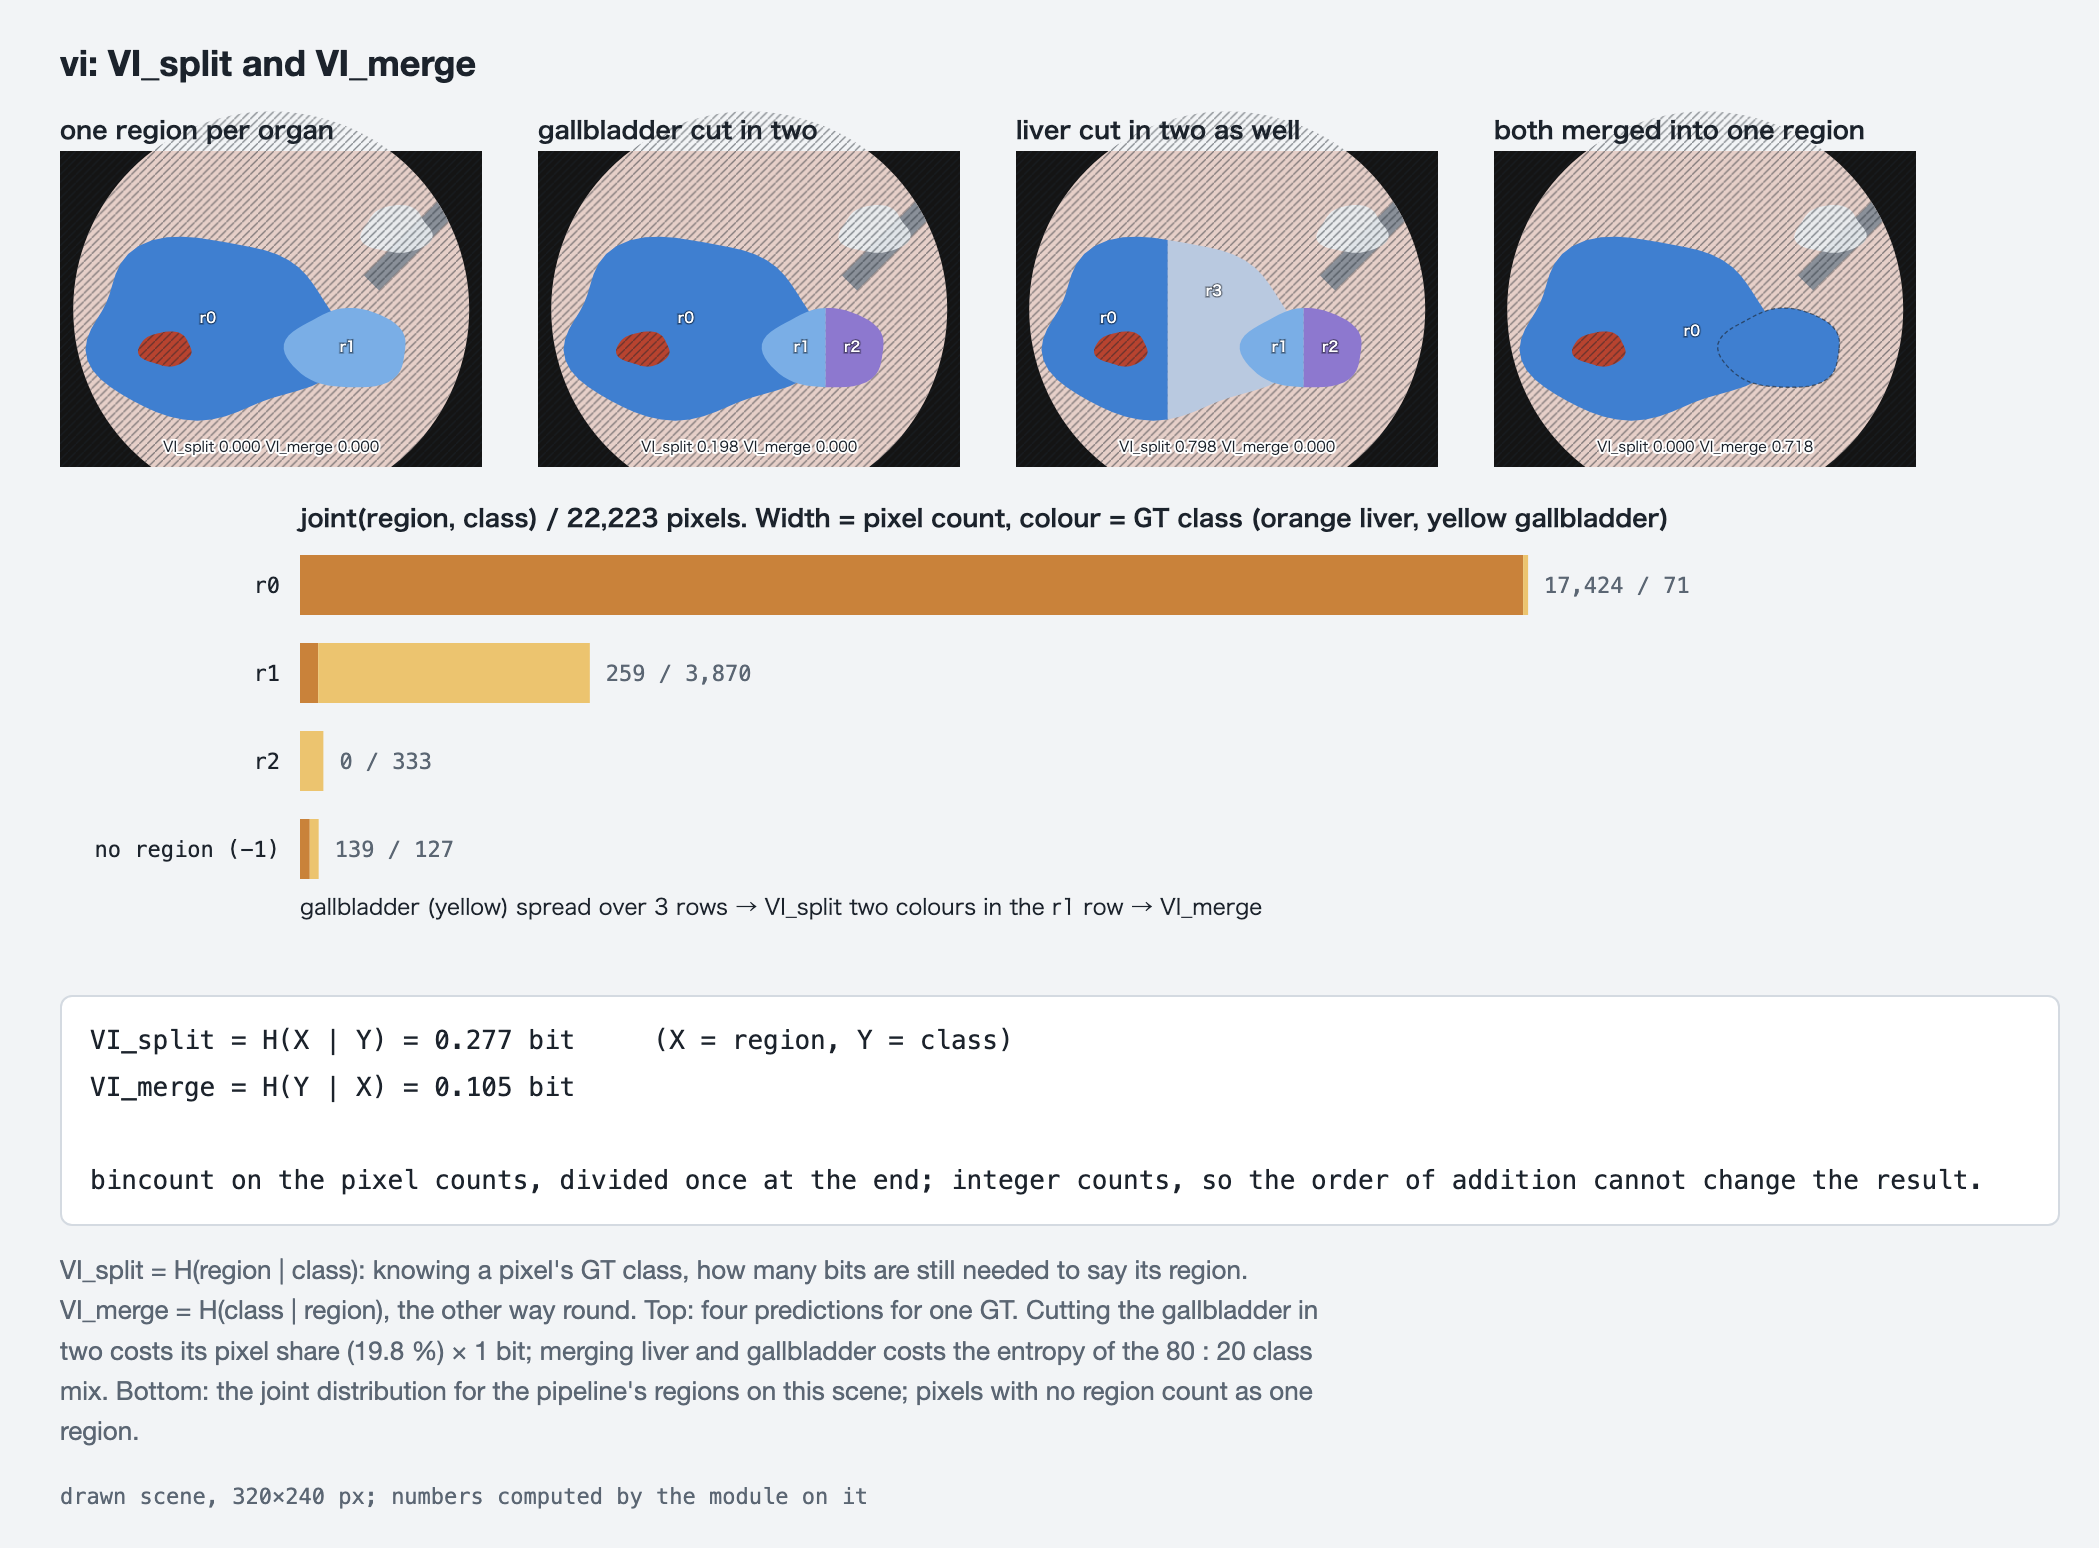
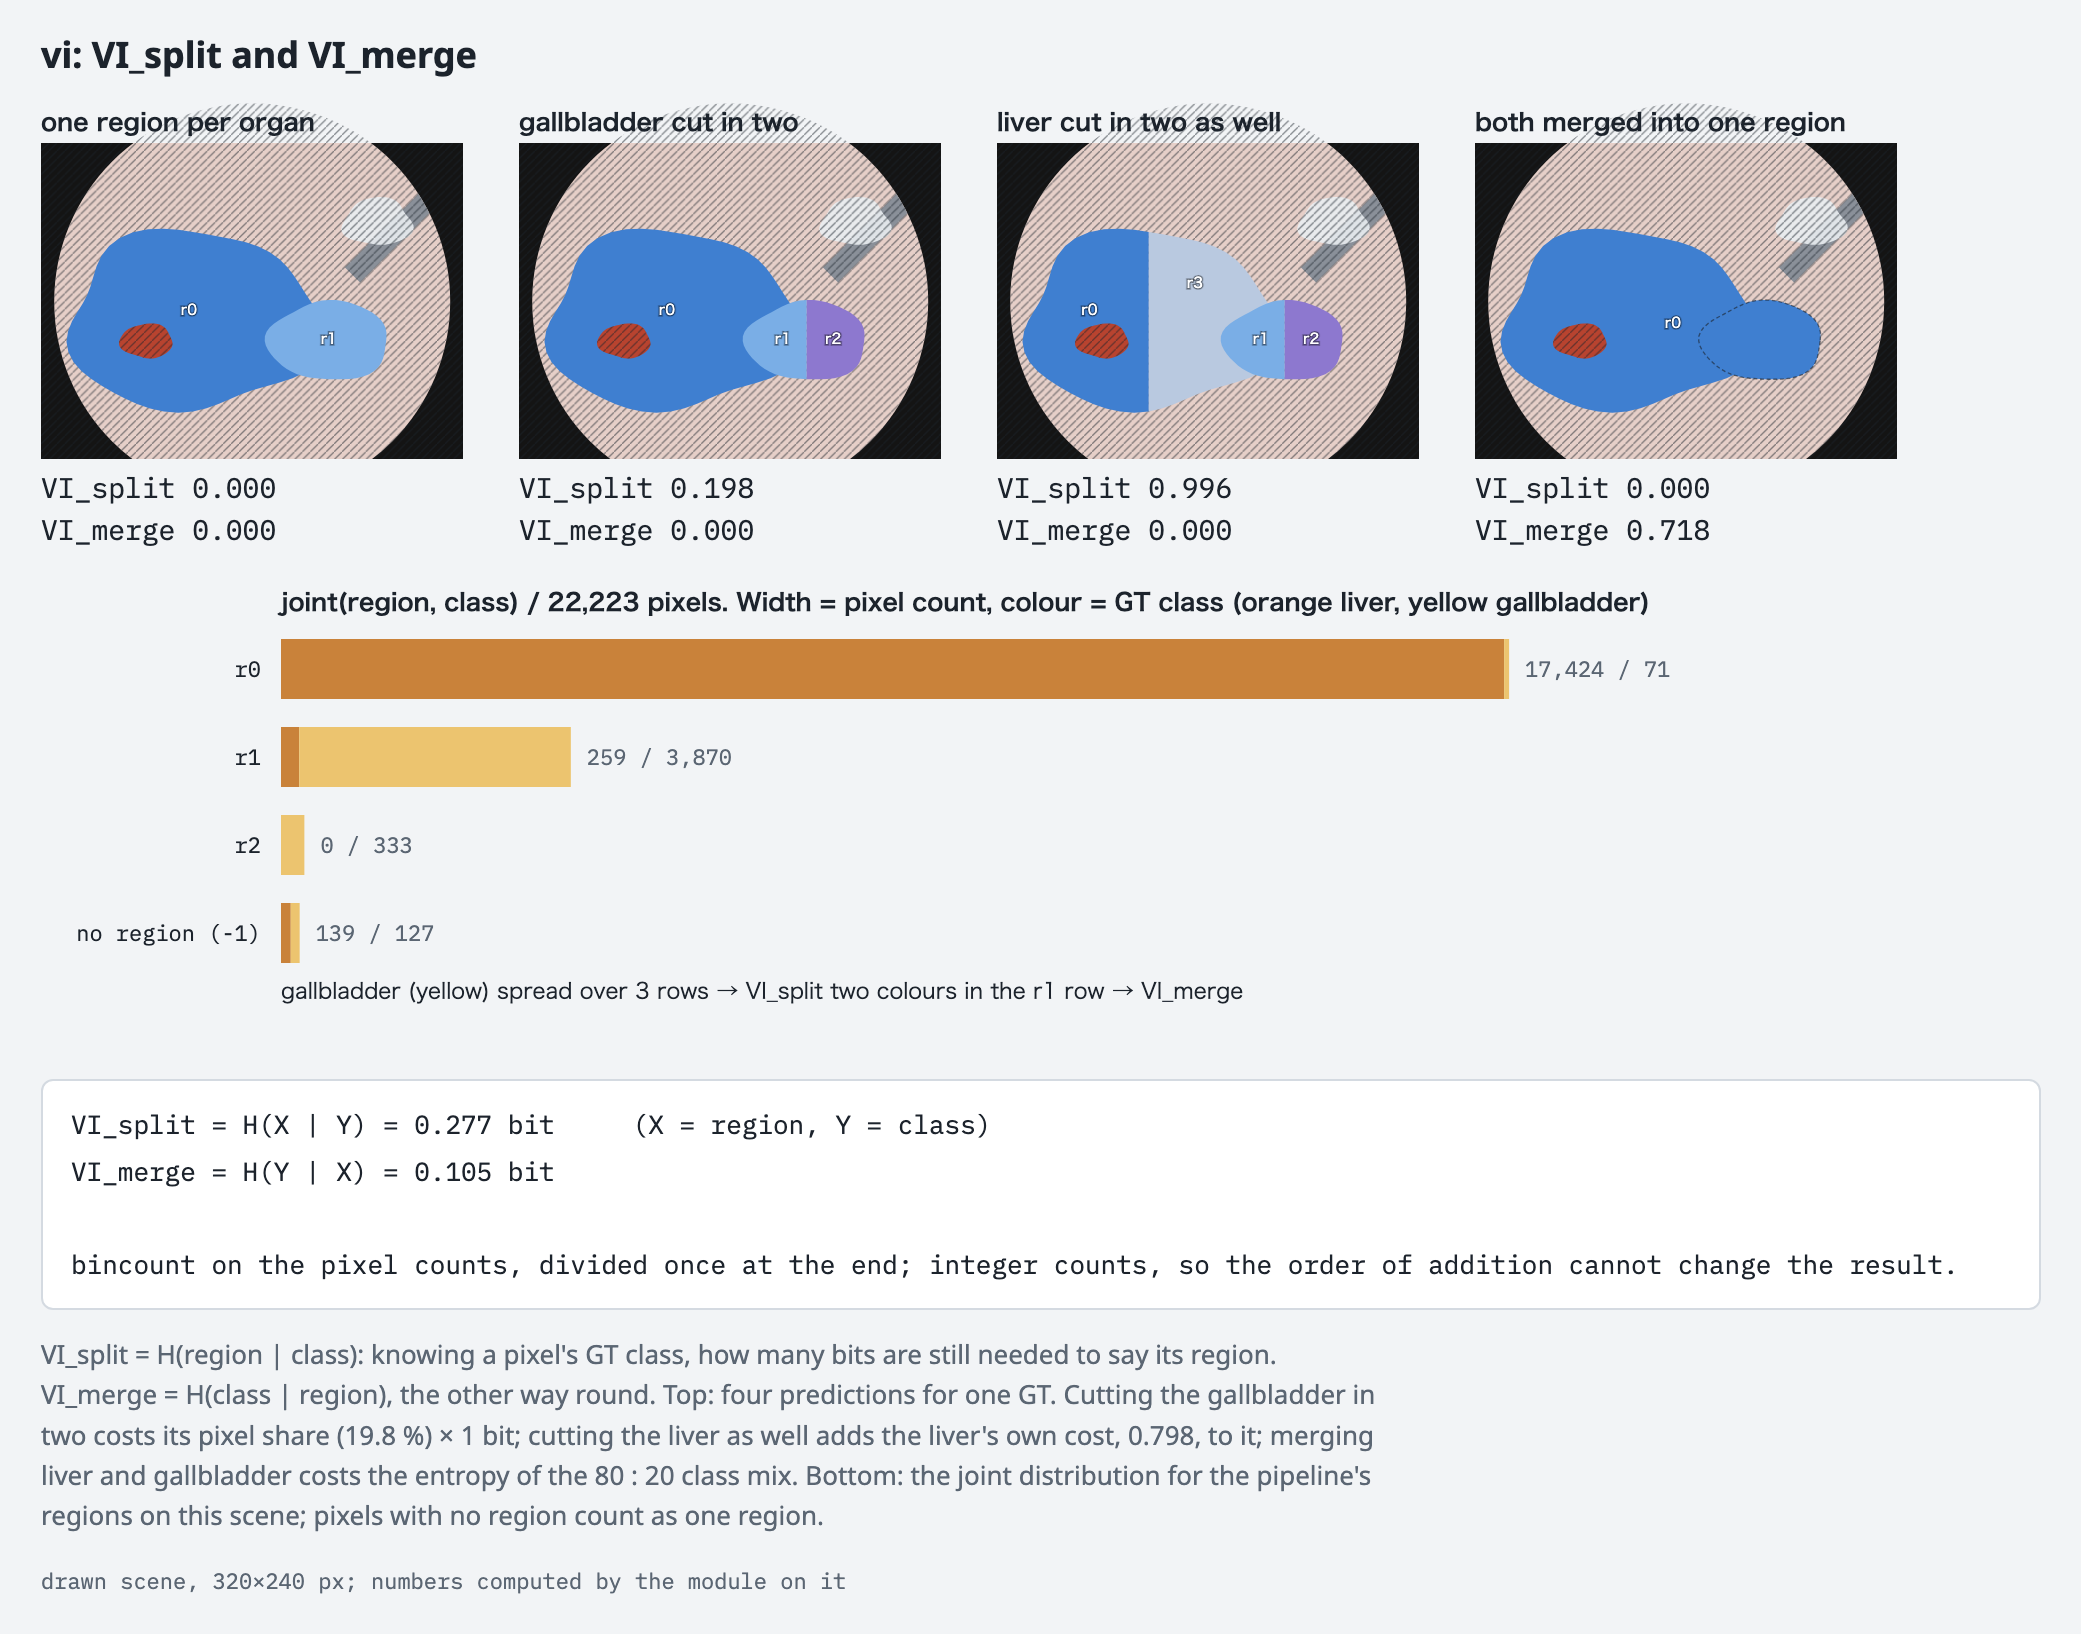
docs/evaluation: correct the VI figure and the boundary tolerance sentence
The third panel of vi.png draws both the liver and the gallbladder cut in
two. Its value was computed with the liver cut alone; it now shows 0.996.
The values sit under each panel, at a size that stays readable when the
figure is shrunk to the page.

The boundary rule said a boundary may be off by BOUNDARY_TOL_PX + 1 px.
The tolerance figure next to it shows that such an edge scores 1/2. The
sentence now says what evalkit/boundary.py computes.

inst_bf.png moves after the boundary rule it relies on. A paragraph
before the first drawn scene says what hatching and the patch without
depth mean. The overview leaves the comparison of two conditions to the
tools. The inputs table counts frames from 0 and says the index is not
time order. The flow in scored_pixels.png routes valid into the sort,
not into the result, and its caption lists what each view leaves out.

diff --git a/docs/evaluation.md b/docs/evaluation.md
@@ -61,17 +61,17 @@ was replaced, then the class tables.
 
 ## The evaluator at a glance
 
-The evaluator works in six steps. It reads a clip's inputs, scores each frame
-in three views, averages each key over the clip, writes one score file per
-condition, and compares two conditions.
+Scoring runs in six steps. The evaluator reads a clip's inputs, scores a
+frame in one view and then in all three, averages each key over the clip, and
+writes one score file per condition. The tools then compare two conditions.
 
-![The evaluator in six steps on a drawn scene: a clip's inputs; one frame, scored in three views; one clip, each key's mean over its frames; one condition, one score file; two conditions, the key that decides each question.](figures/evalkit_overview.png)
+![Scoring in six steps on a drawn scene: a clip's inputs; one frame, scored in each of three views (steps 2 and 3); one clip, each key's mean over its frames; one condition, one score file; two conditions, the key that decides each question.](figures/evalkit_overview.png)
 
 The second figure shows the same steps part by part. Each box names, in its
-corner, the module that holds the part, so a rule below can be found in the
-code. A module's docstring says what it returns.
+corner, the module or package that holds the part, so a rule below can be
+found in the code. A module's docstring says what it returns.
 
-![The evaluator part by part: a clip's inputs; scored pixels and the keys of one frame in one view; one frame in every view; one clip; one score file per condition; the tools that compare two conditions. Each box names its module.](figures/evaluator_map.png)
+![The evaluator part by part: a clip's inputs; scored pixels and the keys of one frame in one view; one frame in every view; one clip; one score file per condition; the tools that compare two conditions. Each box names its module or package.](figures/evaluator_map.png)
 
 ## How a frame is scored
 
@@ -118,12 +118,14 @@ code. A module's docstring says what it returns.
   clip. It lists the clip's frames with their times and GT flags, and holds
   the crop rectangle.
 
-A clip is a directory. Frame i is the i-th entry of the frame manifest, and
-every input of that frame sits at index i. For frame 7:
+A clip is a directory. Frame i is `frames[i]` of the frame manifest, counted
+from 0, and every input of that frame sits at index i. The index is the
+frame's place in the manifest, not in time; "Time" above says how the frames
+are ordered. For frame 7:
 
 | input | where | frame 7 |
 |---|---|---|
-| frame manifest | `frame_manifest.json`, in the clip | entry 7 of `frames`, whose `seq_idx` is 7 |
+| frame manifest | `frame_manifest.json`, in the clip | `frames[7]`, whose `seq_idx` is 7 |
 | depth | `exports/mini_npz/results.npz`, in the clip | `depth[7]` |
 | GT mask | `seg_masks/`, in the clip | `000007_color_mask.png` (CholecSeg8k), `000007_class.png` (ATLAS-120k) |
 | prediction | the condition's directory for the clip, which the tracking stage writes | `label_0007.npy` |
@@ -171,6 +173,12 @@ indexed by class id and predicted objects by region id, both ascending. That
 is the pilot evaluator's order, kept so that both modes share one rule. A pair
 with IoU ≥ `MATCH_IOU` is a *hit*. `F1_50`, `SQ` and `inst_BF` are taken over
 these objects.
+
+This figure and the ones below draw one scene and run the modules on it.
+Hatched pixels are not scored; "Views" says which. The pale patch next to the
+tool has no depth. Normal mode would refuse such a frame. The figures leave
+the patch out of the scored pixels, as pilot mode does, and score the rest by
+the normal rules.
 
 ![Objects on a drawn scene in the geometric view: two GT objects, one per class; three predicted objects, one per region; the pairs taken greedily by IoU, two hits, and F1_50 and SQ computed from them.](figures/objects.png)
 
@@ -233,8 +241,7 @@ that stops at its edge.
 ![One drawn scene in the three views: hatched pixels are not scored; the tool leaves the tissue view, and the tool and the blood leave the geometric view. A table counts each removed pixel once, by the first reason that removed it.](figures/scored_pixels.png)
 
 [`evalkit/scored.py`](../evalkit/scored.py) computes the numbers on this
-scene. It scores the scene in pilot mode, because the scene holds a patch
-without depth, and normal mode refuses such a frame.
+scene, in pilot mode.
 
 #### Why removed pixels are not filled in
 
@@ -309,12 +316,8 @@ What the scores cannot see is counted instead, as `unlabelled_share` below.
   the boundary F between the predicted object's contour and the GT object's,
   each marked by the boundary rule below over the scored pixels.
 
-The figure under "Objects" shows `F1_50` and `SQ`.
-
-![inst_BF on a drawn scene: the contour of each hit against its GT object's contour, within the tolerance, and inst_BF as the mean F over the hits. With the gallbladder unlabelled, the liver has no contour to recover, and the hit is left out and counted.](figures/inst_bf.png)
-
-[`evalkit/inst_bf.py`](../evalkit/inst_bf.py) computes the numbers on this
-scene.
+The figure under "Objects" shows `F1_50` and `SQ`. The figure of `inst_BF`
+comes after the boundary rule it uses, under "Boundaries".
 
 #### The class map, by area: `mIoU`
 
@@ -332,9 +335,10 @@ shows it.
   scored pixel with another label. An edge against a removed pixel (ignored,
   background, or a class the view leaves out) is not a boundary, so a region
   is neither rewarded nor penalised for where it ends against them. Both sides
-  of an edge are marked, so a boundary is 2 px wide, and the tolerance is a
-  square dilation by `BOUNDARY_TOL_PX`: one-sided, a boundary may be off by
-  `BOUNDARY_TOL_PX` + 1 px. A frame whose scored pixels are all one class has
+  of an edge are marked, so a boundary is 2 px wide. The tolerance is a
+  square dilation by `BOUNDARY_TOL_PX`. An edge shifted by `BOUNDARY_TOL_PX`
+  px scores 1, one shifted by `BOUNDARY_TOL_PX` + 1 px scores 1/2, and one
+  further off scores 0. A frame whose scored pixels are all one class has
   no GT boundary, which is common once a view has removed the rest (a frame
   showing only liver, in the geometric view); the boundary metrics are not
   defined on it, and it is counted. When only the prediction's boundary is
@@ -347,6 +351,13 @@ shows it.
 [`evalkit/boundary.py`](../evalkit/boundary.py) computes the numbers in both
 figures.
 
+`inst_BF` applies the same rule to the contour of each hit.
+
+![inst_BF on a drawn scene: the contour of each hit against its GT object's contour, within the tolerance, and inst_BF as the mean F over the hits. With the gallbladder unlabelled, the liver has no contour to recover, and the hit is left out and counted.](figures/inst_bf.png)
+
+[`evalkit/inst_bf.py`](../evalkit/inst_bf.py) computes the numbers on this
+scene.
+
 #### Splitting and merging: `VI_split`, `VI_merge`
 
 `VI_split` = H(regions | GT) and `VI_merge` = H(GT | regions), the two halves
@@ -354,7 +365,7 @@ of the variation of information, in bits, over the scored pixels. The pixels
 with no region count together as one region. On a frame with no scored pixel
 they are not defined, and the frame is counted.
 
-![VI on a drawn scene: cutting the gallbladder in two raises VI_split; merging liver and gallbladder into one region raises VI_merge. Below, the pixels of each region by GT class.](figures/vi.png)
+![VI on a drawn scene: cutting the gallbladder in two raises VI_split, and cutting the liver as well raises it further; merging liver and gallbladder into one region raises VI_merge. Below, the pixels of each region by GT class.](figures/vi.png)
 
 [`evalkit/vi.py`](../evalkit/vi.py) computes the numbers on this scene.
 
@@ -426,9 +437,6 @@ conditions, and judges each on its own key, on each dataset's own labels
 | Given no GT, how much of the labelled structure is already in the regions? | `F1_50` and `SQ` | geometric |
 
 ![The three questions on a drawn scene. Q1: a region picked out in one frame follows the gallbladder for two frames, then leaves it. Q2: the regions' boundaries against the GT's class boundaries, giving boundary_R_raw. Q3: regions matched to the GT's objects, giving F1_50 and SQ.](figures/three_questions.png)
-
-No key decides the first question yet, so its panel is an illustration. The
-numbers in the other two panels are what the modules compute on the scene.
 
 The second question is answered within each view, between conditions that
 differ in what the pipeline is given: the image, the depth, or both. The
